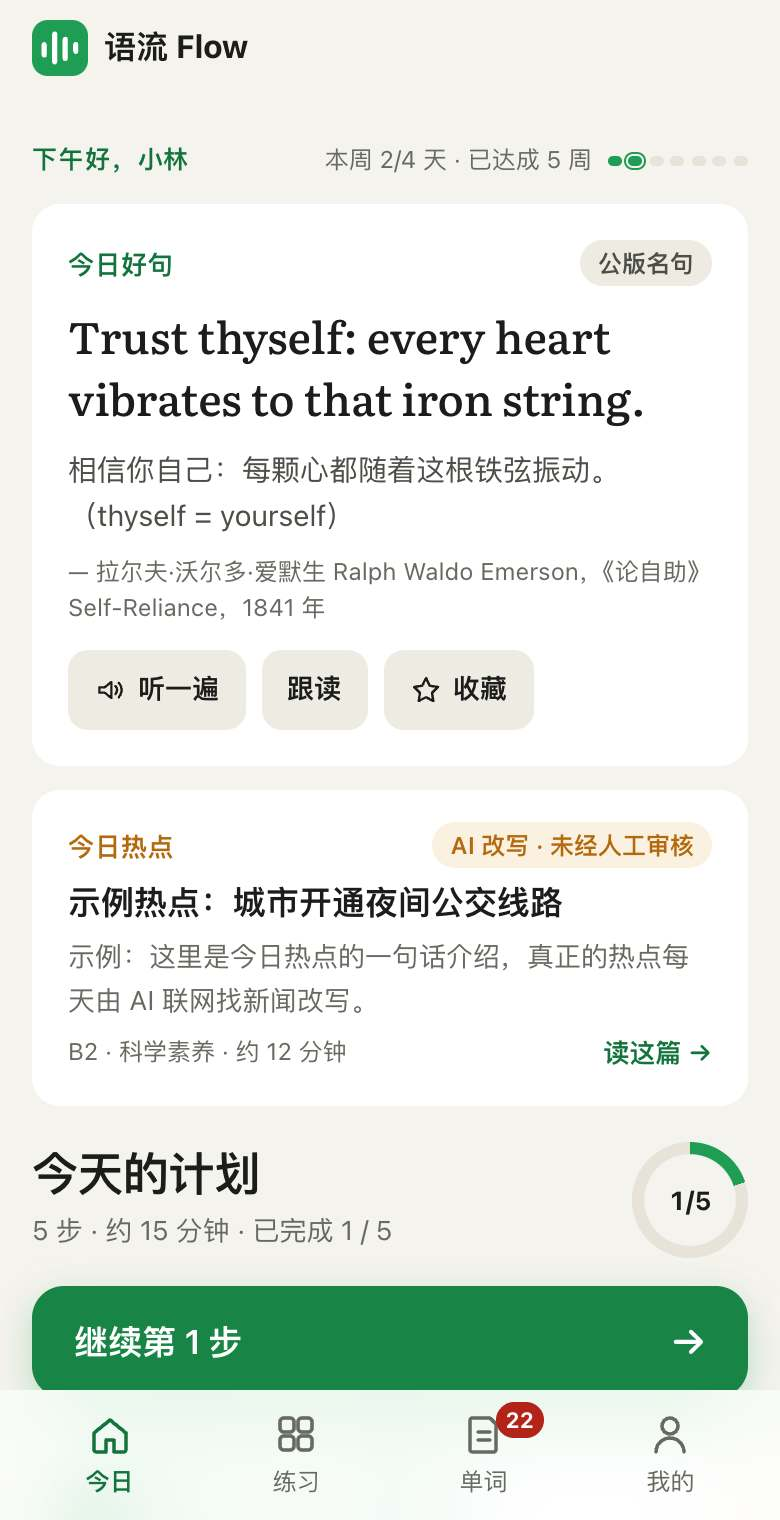
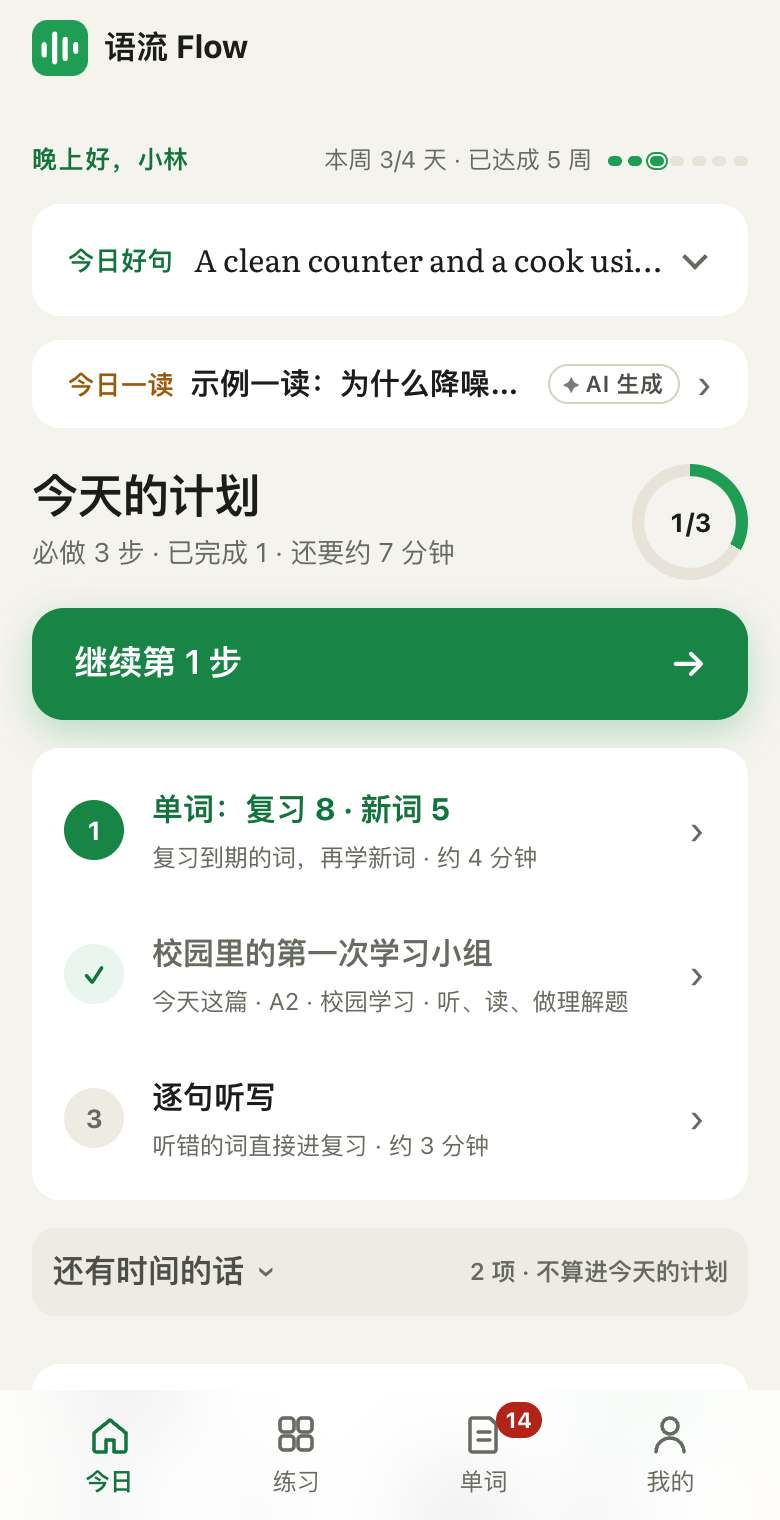
今日：手机上今日好句和今日一读各收成一行，今天的计划和「开始」按钮回到第一屏
用户定的（2026-11-25，界面巡检一般-7，「好句和一读在手机上各收成一行」）：手机上（宽度 < 760）
- 今日好句一行：「今日好句」+ 这句英文的开头 + 小箭头；点这一行原地展开（全句、意思、出处、听一遍 / 跟读 / 收藏），
  再点箭头收起；当天展开过的，回到今日还是展开的（localStorage flow-line-open，按日期和句子）。收起时停掉跟读录音。
- 今日一读一行：「今日一读」+ 标题 + 「✦ AI 生成」+ ›，点这一行直接打开这篇（和以前一样）。
- 顺序不变；iPad 和电脑照常整张显示。
实测 375/390 × Safari（工具栏露着）/主屏 × 浅深，Chrome 和 WebKit：「今天的计划」和「继续第 1 步」都在第一屏，
按钮底边 360–407px，底栏顶边 488–745px。
ui_test progress 组每种屏幕和颜色多一条检查（手机一行、AI 生成在行上、计划在第一屏、点开收起；宽屏整张）；
好句的按钮检查先点开；TOP_JS 只数看得见的按钮。指南「今日」三处写了手机上收成一行，today.jpg 重拍。

diff --git a/flow/public/src/next/12-daily-line.js b/flow/public/src/next/12-daily-line.js
@@ -6,22 +6,35 @@
     const l = h && h.line; if (!l) return '';
     let en = esc(l.en).split(' / ').join('<br>');
     if (l.expression) { const k = l.en.toLowerCase().indexOf(l.expression.toLowerCase()); if (k >= 0) en = esc(l.en.slice(0, k)) + '<b>' + esc(l.en.slice(k, k + l.expression.length)) + '</b>' + esc(l.en.slice(k + l.expression.length)); }
-    return `<section class="card line-card" id="lineCard" aria-labelledby="lineTitle">
-      <div class="lc-head"><h2 class="lc-title" id="lineTitle">今日好句</h2><span class="pill${l.kind === 'text' ? ' green' : ''}">${esc(l.label)}</span></div>
+    // On a phone the card is one line until tapped (the owner, 2026-11-25: 今天的计划 and its button on the first screen);
+    // opened, it stays open for the rest of the day. iPad and computer always show it whole (98-daily-line.css).
+    const open = load('flow-line-open') === lineDay(l);
+    return `<section class="card line-card${open ? ' open' : ''}" id="lineCard" aria-labelledby="lineTitle">
+      <div class="lc-head"><h2 class="lc-title" id="lineTitle">今日好句</h2><span class="pill${l.kind === 'text' ? ' green' : ''}">${esc(l.label)}</span>
+        <button class="lc-fold" id="lcFold" type="button" aria-expanded="${open}" aria-controls="lcBody" aria-label="${open ? '收起' : '展开'}今日好句" data-tap="line-fold"><span class="lc-peek" lang="en" aria-hidden="true">${esc(l.say)}</span><span class="lc-chev" aria-hidden="true"></span></button></div>
+      <div class="lc-body" id="lcBody">
       <p class="lc-en${l.say.length > 100 ? ' long' : ''}" lang="en">${en}</p>
       <p class="lc-zh">${esc(l.zh)}</p>${l.note ? `<p class="tiny muted lc-note">${esc(l.note)}</p>` : ''}
       <p class="lc-src tiny">${l.kind === 'quote' ? '— ' : ''}${esc(l.source)}${l.href ? ` · <a class="link" href="${esc(l.href)}" data-tap="line-read">读原文</a>` : ''}</p>
       <div class="lc-acts"><button class="btn small" id="lcSay" type="button" data-tap="line-say">${ICON.speak}听一遍</button>${aiVoice()}
         <button class="btn small" id="lcShadow" type="button" data-tap="line-shadow" aria-expanded="false" aria-controls="lcPanel">跟读</button>
         <button class="btn small" id="lcKeep" type="button" data-tap="line-keep">${ICON.star}收藏</button></div>
-      <div id="lcPanel" hidden></div></section>`;
+      <div id="lcPanel" hidden></div></div></section>`;
   }
+  function lineDay(l) { return new Date().toDateString() + ' ' + l.id; }
   function sayLine(l, done) {
     if (l.kind === 'text' && l.audio) CLIP.sentence({ pack: l.pack, i: l.i, text: l.say, audio: l.audio }, done);
     else TTS.say(l.say, done);
   }
   function bindLine(h) {
     const l = h && h.line, box = document.getElementById('lineCard'); if (!l || !box) return;
+    const fold = box.querySelector('#lcFold');
+    fold.onclick = () => {
+      const open = !box.classList.contains('open');
+      box.classList.toggle('open', open); fold.setAttribute('aria-expanded', String(open)); fold.setAttribute('aria-label', (open ? '收起' : '展开') + '今日好句');
+      save('flow-line-open', open ? lineDay(l) : null);
+      if (!open) { MIC.stop(); const p = box.querySelector('#lcPanel'); if (!p.hidden) box.querySelector('#lcShadow').click(); }
+    };
     box.querySelector('#lcSay').onclick = () => sayLine(l);
     box.querySelector('#lcKeep').onclick = e => saveCard(l.kind === 'text'
       ? { text: l.expression, meaning: l.meaning, context: l.en, pack: l.pack }
@@ -59,10 +72,11 @@
     };
   }
   // 今日一读 (since 2026-11-25; 今日热点 before): an original short text a day on a lasting topic, written by AI with no
-  // news and no search (daily_service), marked 「AI 生成」 in the shared style (aiTag, 00-head.js).
+  // news and no search (daily_service), marked 「AI 生成」 in the shared style (aiTag, 00-head.js). On a phone it is one
+  // line (its name, the title, 「AI 生成」): a tap opens the text, as before.
   function newsCardHTML(n) {
     if (!n) return '';
     return `<a class="card news-card" href="#/m/${encodeURIComponent(n.id)}" data-tap="home-news"><span class="lc-head"><span class="lc-title nc-title">今日一读</span>${aiTag()}</span>
       <b class="nc-h">${esc(n.title)}</b>${n.preview ? `<span class="small muted nc-p">${esc(n.preview)}</span>` : ''}
-      <span class="tiny muted">${n.level} · ${n.reasons && n.reasons.length ? `<span class="nc-why">${esc(n.reasons[0])}</span>` : esc(n.theme_label || '')}${n.minutes ? ` · 约 ${n.minutes} 分钟` : ''}<span class="nc-go">读这篇 →</span></span></a>`;
+      <span class="tiny muted nc-meta">${n.level} · ${n.reasons && n.reasons.length ? `<span class="nc-why">${esc(n.reasons[0])}</span>` : esc(n.theme_label || '')}${n.minutes ? ` · 约 ${n.minutes} 分钟` : ''}<span class="nc-go">读这篇 →</span></span></a>`;
   }

diff --git a/flow/public/src/next/98-daily-line.css b/flow/public/src/next/98-daily-line.css
@@ -1,6 +1,8 @@
 /* ---- 今日好句 and 今日热点 (r27): the top of 今日 ---- */
 .line-card{display:grid;gap:8px;padding:18px;margin:2px 0 12px;background:var(--paper);border:0;box-shadow:none}
 .lc-head{display:flex;justify-content:space-between;align-items:center;gap:10px}
+.lc-body{display:grid;gap:8px}
+.lc-fold{display:none}
 .lc-title{margin:0;font-size:13px;line-height:1.4;font-weight:700;color:var(--green-ink);letter-spacing:.02em}
 .lc-en{margin:2px 0 0;font-family:var(--serif);font-size:22px;line-height:1.4;font-weight:500;color:var(--ink);overflow-wrap:anywhere}
 .lc-en.long{font-size:19px}
@@ -40,3 +42,29 @@
   .lc-en{font-size:20px}
   .lc-en.long{font-size:17.5px}
 }
+
+/* Phones: 今日好句 and 今日一读 one line each, so 今天的计划 and its 开始 / 继续 button are on the first screen (the owner's
+   pick, 2026-11-25). 好句: its name, the start of the sentence and a chevron; a tap anywhere on the line opens it in place
+   (open for the rest of the day, 12-daily-line.js). 今日一读: its name, the title, 「AI 生成」; a tap opens the text. */
+@media (max-width:759px){
+  .line-card{position:relative}
+  .line-card>.lc-head{min-width:0}  /* a grid item: without it the line's whole sentence widens the card */
+  .line-card:not(.open){gap:0;padding-top:6px;padding-bottom:6px}
+  .line-card:not(.open) .lc-body,.line-card:not(.open) .lc-head .pill{display:none}
+  .lc-fold{display:flex;align-items:center;justify-content:flex-end;gap:8px;flex:1;min-width:0;min-height:44px;margin:0;padding:0;border:0;background:none;color:inherit;font:inherit;text-align:left;cursor:pointer}
+  .line-card:not(.open) .lc-fold::after{content:"";position:absolute;inset:0;border-radius:inherit}  /* the whole line takes the tap */
+  .lc-peek{flex:1;min-width:0;white-space:nowrap;overflow:hidden;text-overflow:ellipsis;font-family:var(--serif);font-size:15.5px;color:var(--ink)}
+  .line-card.open .lc-peek{display:none}
+  .line-card.open .lc-fold{flex:none;min-width:44px}
+  .lc-chev{flex:none;width:9px;height:9px;margin:0 4px 4px;border-right:2px solid var(--muted);border-bottom:2px solid var(--muted);transform:rotate(45deg);transition:transform .2s}
+  .line-card.open .lc-chev{transform:rotate(225deg);margin-bottom:-4px}
+  .line-card.open .lc-head .pill{margin-left:auto}
+  .news-card{display:flex;align-items:center;gap:8px;min-height:44px;padding-top:10px;padding-bottom:10px}
+  .news-card .lc-head{display:contents}
+  .news-card .nc-title{flex:none}
+  .news-card .nc-h{order:1;flex:1;min-width:0;white-space:nowrap;overflow:hidden;text-overflow:ellipsis;font-size:15px}
+  .news-card .ai-mark{order:2;flex:none}
+  .news-card .nc-p,.news-card .nc-meta{display:none}
+  .news-card::after{content:"›";order:3;flex:none;color:var(--muted);font-size:20px;line-height:1}
+}
+@media (max-width:759px) and (prefers-reduced-motion:reduce){.lc-chev{transition:none}}

diff --git a/tools/ui_test.py b/tools/ui_test.py
@@ -2601,6 +2601,11 @@ CARD_JS = r"""() => {
 }"""
 
 # 今日 from the top: 好句, 热点, the plan, 这周进步; nothing in the 好句 card cut off; its buttons big enough to tap
+FOLD_JS = """() => { const q = s => document.querySelector(s), r = e => e.getBoundingClientRect();
+  const tabs = q('.tabs'), cs = tabs && getComputedStyle(tabs), tabTop = tabs && cs.position === 'fixed' && cs.display !== 'none' ? r(tabs).top : innerHeight;
+  const lc = q('#lineCard'), nc = q('#view .news-card'), h1 = q('#tpTitle'), go = q('#view .today-plan .go-next'), say = q('#lcSay'), ai = nc && nc.querySelector('.ai-mark');
+  return { lineH: lc ? Math.round(r(lc).height) : null, newsH: nc ? Math.round(r(nc).height) : null, newsAI: !!(ai && r(ai).height > 0 && r(ai).bottom <= r(nc).bottom),
+    planInView: !!(h1 && go && r(h1).top >= 0 && r(go).bottom <= tabTop), say: !!(say && say.offsetParent !== null), foldShown: !!(q('#lcFold') && q('#lcFold').offsetParent !== null) }; }"""
 TOP_JS = r"""() => {
   const r = el => el.getBoundingClientRect();
   const blocks = [['lineCard', '#lineCard'], ['news', '#view .news-card'], ['plan', '#view .today-plan'], ['week', '#weekCard']]
@@ -2608,7 +2613,7 @@ TOP_JS = r"""() => {
   const card = document.getElementById('lineCard');
   return { order: blocks, wide: document.scrollingElement.scrollWidth - innerWidth,
            clipped: card ? [...card.querySelectorAll('*')].filter(e => r(e).right > r(card).right + 1).map(e => e.className || e.tagName).slice(0, 3) : ['no card'],
-           small: card ? [...card.querySelectorAll('button')].filter(b => r(b).height < 40).map(b => b.textContent.trim()) : [] };
+           small: card ? [...card.querySelectorAll('button')].filter(b => b.offsetParent !== null && r(b).height < 40).map(b => b.textContent.trim()) : [] };
 }"""
 
 SWIPE_SIZES = {'ipad-land': (1180, 820), 'ipad-mini-land': (1133, 744), 'phone': (390, 844)}
@@ -2710,6 +2715,16 @@ def progress_run(pw):
                       top['order'] == (['plan', 'lineCard', 'news', 'week'] if h < 500 else ['lineCard', 'news', 'plan', 'week']) and not top['clipped'] and top['wide'] <= 0 and (not touch or top['small'] == []), top)
                 nc = pg.text_content('#view .news-card') or ''
                 check(dev, f'{tag}: the card is 今日一读, marked AI 生成, never an old 今日热点', '今日一读' in nc and 'AI 生成' in nc and '旧热点' not in nc, nc[:80])
+                # phones (the owner, 2026-11-25): 好句 and 今日一读 one line each, 「AI 生成」 on 今日一读's line, so 今天的计划 and its
+                # button are on the first screen; a tap opens 好句 in place, again closes it. iPad and computer: both cards whole
+                fold = pg.evaluate(FOLD_JS)
+                if w < 760:
+                    pg.click('#lcFold'); pg.wait_for_timeout(300); opened = pg.evaluate(FOLD_JS)
+                    pg.click('#lcFold'); pg.wait_for_timeout(300); closed = pg.evaluate(FOLD_JS)
+                    check(dev, f'{tag}: 好句 and 今日一读 one line each (今日一读 marked AI 生成 on it), the plan and its button on the first screen; 好句 opens and closes in place',
+                          fold['lineH'] <= 70 and fold['newsH'] <= 64 and fold['newsAI'] and fold['planInView'] and not fold['say'] and opened['say'] and not closed['say'], (fold, opened['say'], closed['say']))
+                else:
+                    check(dev, f'{tag}: 好句 and 今日一读 shown whole (no fold on a wide screen)', fold['say'] and not fold['foldShown'] and fold['newsH'] > 70, fold)
                 check(dev, f'{tag}: its four numbers are the learner\'s own (as the server counts them)', card and card['values'] == want, (card and card['values'], want))
                 path = home['path']; plan = pg.evaluate(PLAN_JS)
                 grp = {g: [x for x in path['steps'] if x.get('group', 'must') == g] for g in ('must', 'extra', 'week')}
@@ -2770,6 +2785,7 @@ def progress_run(pw):
         line = pg.evaluate("fetch('/api/next/home').then(r => r.json()).then(h => h.line)")
         voiced = []  # the server voice (tts_service) says it now; the browser voice when that is off
         pg.on('request', lambda r: voiced.append(json.loads(r.post_data or '{}').get('text')) if '/api/next/tts' in r.url else None)
+        pg.click('#lcFold'); pg.wait_for_timeout(250)  # one line on a phone: open it first
         pg.click('#lcSay'); pg.wait_for_timeout(600)
         said = pg.evaluate('window.__said || []') + voiced
         mark = pg.evaluate("() => { const m = document.querySelector('#lineCard .lc-acts .ai-voice'), b = document.getElementById('lcSay'); "
@@ -2792,7 +2808,8 @@ def progress_run(pw):
                 'note': ex.get('note', ''), 'expression': ex['text'], 'meaning': ex['meaning'], 'source': f"出自《{m['title']}》 · B2", 'pack': PID, 'i': k,
                 'title': m['title'], 'level': 'B2', 'audio': 0, 'href': f'#/m/{PID}/read', 'day': '2026-11-25'}
         pg.route('**/api/next/home*', lambda route: (lambda r: route.fulfill(response=r, json={**r.json(), 'line': fake}))(route.fetch()))
-        pg.evaluate("() => { localStorage.removeItem('flow-snap'); }"); pg.reload(wait_until='networkidle'); settle(pg); pg.wait_for_selector('#lineCard .lc-en b', timeout=8000)
+        pg.evaluate("() => { localStorage.removeItem('flow-snap'); }"); pg.reload(wait_until='networkidle'); settle(pg); pg.wait_for_selector('#lcFold', timeout=8000)
+        pg.click('#lcFold'); pg.wait_for_selector('#lineCard .lc-en b', timeout=8000)  # another line: one line again until opened
         shown = pg.evaluate("() => { const c = document.getElementById('lineCard'); return [c.querySelector('.lc-en b').textContent, c.querySelector('.lc-src a').getAttribute('href'), c.querySelector('.pill').textContent]; }")
         check(dev, '好句 from a 语流 text: its expression marked, a link to the text, labelled as 语流文章', shown == [ex['text'], f'#/m/{PID}/read', '语流文章'], shown)
         pg.screenshot(path=str(OUT / 'progress-line-text.png'))

diff --git a/flow/public/guide/guide.md b/flow/public/guide/guide.md
@@ -117,13 +117,15 @@
 
 # 今日：每天的计划 {#today}
 
-「今日」是每天打开语流第一眼看到的页面，它已经按你的水平、目标和每天的时间排好了要做的事。从上往下依次是：今日好句、今日一读、今天的计划、这周进步，再往下是一条提醒和「也可以读」。手机横着拿、屏幕很矮时，今天的计划会排到最前面，好让「开始」按钮一眼就能看到。
+「今日」是每天打开语流第一眼看到的页面，它已经按你的水平、目标和每天的时间排好了要做的事。从上往下依次是：今日好句、今日一读、今天的计划、这周进步，再往下是一条提醒和「也可以读」。手机上，今日好句和今日一读先各收成一行，好让今天的计划和「开始」按钮在第一屏就能看到；iPad 和电脑上照常整张显示。手机横着拿、屏幕很矮时，今天的计划会排到最前面。
 
 ![今日页：今日好句、今日一读和今天的计划](shot:today)
 
 ## 今日好句
 
-最上面是一句值得记住的英文，写着中文意思和出处，每天换一句。好句隔天轮流来自两个地方：
+最上面是一句值得记住的英文，写着中文意思和出处，每天换一句。手机上这一张先收成一行：写着「今日好句」和这句英文的开头，点这一行就展开，看全句、中文意思和下面的三个按钮；点右上角的小箭头再收起来。当天展开过的，回到今日页还是展开的。
+
+好句隔天轮流来自两个地方：
 
 - **公版名句**：已经进入公有领域的经典作品和演讲，比如弗罗斯特、莎士比亚、简·奥斯汀、林肯，只选 1929 年以前发表、原文就是英文的。每句都写着作者、作品和年份；不用电影台词，也不用说不清出处的「名人名言」。同一天大家看到的是同一句。
 - **语流文章**：从你这个水平、你还没学过的精选文章里挑一句，句子里要学的表达会标出来，下面是这个表达的意思。点「读原文」就去学这一篇。
@@ -138,7 +140,7 @@
 
 好句下面是今日一读：AI 每天写的一篇英语原创短文，标着「✦ AI 生成」。话题是科普、科技与生活、文化、生活和学习方法，遇到节日和节气就写节日和节气；不联网检索，不写新闻、时政和真实人物，也不写具体日期和数字。发布前先查一遍新闻和时政的词，再让 AI 自己查一遍，有一项不过，这一天就不发。没有人逐篇读过，当作额外阅读就好。开始每天发之前，先写了几篇样稿看过，确认不碰新闻。鬼怪一类的话题只写习俗和讲故事本身，不写血腥、恐怖的细节，也不说真的有。
 
-卡片上写着标题、一句话介绍、级别和大约几分钟，点「读这篇」开始学。今日一读每天一篇，难度在四个级别之间轮换，今日页只给和你同级的那篇（最多是 4 天前的）；同级那天没写成，就给低一级的。话题和你的学习目的对得上时，卡片最下面一行的话题换成绿色的「和你的目标相关」。最近 4 天里没有合适的，这一块就不出现。
+卡片上写着标题、一句话介绍、级别和大约几分钟，点「读这篇」开始学。手机上它只占一行：「今日一读」、标题和「✦ AI 生成」，点这一行直接打开这篇。今日一读每天一篇，难度在四个级别之间轮换，今日页只给和你同级的那篇（最多是 4 天前的）；同级那天没写成，就给低一级的。话题和你的学习目的对得上时，卡片最下面一行的话题换成绿色的「和你的目标相关」。最近 4 天里没有合适的，这一块就不出现。
 
 2026 年 11 月 25 日以前，这里是「今日热点」：AI 联网检索新闻后改写。因为提供新闻要有许可，那天起停掉了，以前那几篇也不再显示。
 
